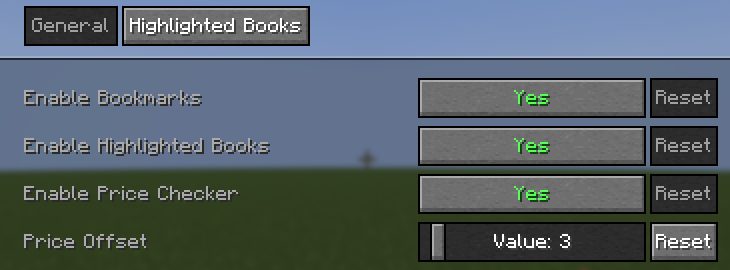
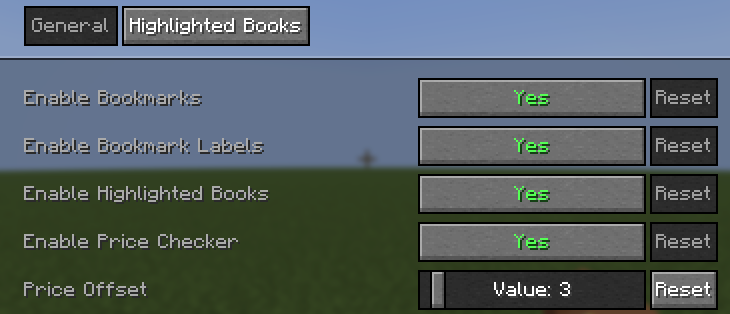
Version 1.3.1: bookmark labels follow name tag rules, new labels setting

diff --git a/src/gametest/java/com/rodrigograc4/cherishedtrades/gametest/CherishedTradesClientGameTest.java b/src/gametest/java/com/rodrigograc4/cherishedtrades/gametest/CherishedTradesClientGameTest.java
@@ -309,19 +309,51 @@ public class CherishedTradesClientGameTest implements FabricClientGameTest {
         context.waitTicks(10);
         context.takeScreenshot("cherishedtrades-6e-villager-labels-named");
 
-        // README: a few blocks back and aiming at the body, so the crosshair stays below the head.
-        // The name is made always visible, since vanilla only shows it within reach.
-        server.runOnServer(s -> findVillager(s, villagerId).setCustomNameVisible(true));
-        server.runCommand("tp @a 0.5 -60 -2 0 8");
-        context.waitTicks(10);
-        context.runOnClient(client -> check(!VillagerTradeLabels.linesFor(findClientVillager(client, villagerId), 1.0F).isEmpty(),
-                "bookmarked trades should show while looking at the villager's body"));
-        context.takeScreenshot("readme-villager-labels");
+        // Labels show exactly when vanilla shows the name tag. The villager is named "Bob" here,
+        // so every check also compares the labels with the real name tag.
+        checkLabels(context, villagerId, true, "labels should show for the villager under the crosshair");
+
+        server.runCommand("tp @a 0.5 -60 -1 0 0");
+        checkLabels(context, villagerId, null, "3.5 blocks away");
+        server.runCommand("tp @a 0.5 -60 -4 0 0");
+        checkLabels(context, villagerId, false, "labels must not show from 6.5 blocks away");
+        server.runCommand("tp @a 0.5 -60 0.5 90 0");
+        checkLabels(context, villagerId, false, "labels must not show when looking away");
+        server.runCommand("tp @a 0.5 -60 0.5 0 0");
+
+        server.runCommand("setblock 0 -59 1 minecraft:stone");
+        checkLabels(context, villagerId, false, "labels must not show through a wall");
+        server.runCommand("setblock 0 -59 1 minecraft:air");
+        checkLabels(context, villagerId, true, "labels should come back once the wall is gone");
+
+        server.runOnServer(s -> findVillager(s, villagerId).addEffect(
+                new net.minecraft.world.effect.MobEffectInstance(net.minecraft.world.effect.MobEffects.INVISIBILITY, 200)));
+        checkLabels(context, villagerId, false, "labels must not show for an invisible villager");
+        server.runOnServer(s -> findVillager(s, villagerId).removeAllEffects());
+        checkLabels(context, villagerId, true, "labels should come back once the villager is visible");
+
+        context.runOnClient(client -> CherishedTradesConfig.INSTANCE.enableBookmarkLabels = false);
+        checkLabels(context, villagerId, false, "Enable Bookmark Labels off hides the labels", false);
+        context.runOnClient(client -> CherishedTradesConfig.INSTANCE.enableBookmarkLabels = true);
 
         context.runOnClient(client -> client.gui.hud.toggle());
-        context.runOnClient(client -> check(VillagerTradeLabels.linesFor(findClientVillager(client, villagerId), 1.0F).isEmpty(),
-                "labels hide with the HUD (F1), like vanilla name tags"));
+        checkLabels(context, villagerId, false, "labels hide with the HUD (F1), like vanilla name tags");
         context.runOnClient(client -> client.gui.hud.toggle());
+
+        // From several angles the name must sit right on top of the lines, with no gap.
+        // Each is "x y z" for the player's feet, aiming at the villager's head from within reach.
+        labelAngle(context, server, villagerId, "1-front", "0.5 -60 0.5", null);
+        labelAngle(context, server, villagerId, "2-above", "0.5 -59 -0.2", "0 -60 -1");
+        labelAngle(context, server, villagerId, "3-below", "0.5 -61 0.5", null);
+        labelAngle(context, server, villagerId, "4-diagonal-left", "-1.2 -60 0.8", null);
+        labelAngle(context, server, villagerId, "5-diagonal-above", "2.2 -59 0.8", "2 -60 0");
+        labelAngle(context, server, villagerId, "6-side", "3 -60 2.5", null);
+
+        // README: the whole head with the crosshair on the body, below the crop.
+        server.runCommand("tp @a 0.5 -60 -0.6 " + facingVillager("0.5 -60 -0.6", VILLAGER_BODY_Y));
+        checkLabels(context, villagerId, true, "labels should show for the README shot");
+        context.takeScreenshot("readme-villager-labels");
+        server.runCommand("tp @a 0.5 -60 0.5 0 0");
 
         context.getInput().resizeWindow(854, 480);
         context.waitTicks(5);
@@ -411,6 +443,51 @@ public class CherishedTradesClientGameTest implements FabricClientGameTest {
         var stored = result.get(DataComponents.STORED_ENCHANTMENTS);
         var sharpness = server.registryAccess().lookupOrThrow(Registries.ENCHANTMENT).getOrThrow(Enchantments.SHARPNESS);
         check(stored != null && stored.getLevel(sharpness) == 5, "server result slot should hold Sharpness V, got " + result + " " + stored);
+    }
+
+    private static void labelAngle(ClientGameTestContext context, TestServerContext server, UUID villagerId,
+                                   String name, String feet, String standOn) {
+        if (feet.contains("-61")) server.runCommand("setblock 0 -61 0 minecraft:air");
+        if (standOn != null) server.runCommand("setblock " + standOn + " minecraft:stone");
+        server.runCommand("tp @a " + feet + " " + facingVillager(feet, VILLAGER_HEAD_Y));
+        checkLabels(context, villagerId, true, "labels should show from angle " + name);
+        context.takeScreenshot("label-angle-" + name);
+        if (standOn != null) server.runCommand("setblock " + standOn + " minecraft:air");
+        if (feet.contains("-61")) server.runCommand("setblock 0 -61 0 minecraft:grass_block");
+    }
+
+    private static final double VILLAGER_HEAD_Y = -58.35;
+    private static final double VILLAGER_BODY_Y = -58.9;
+
+    // "yaw pitch" that points the player's eyes (feet + 1.62) at the villager (x 0.5, z 2.5) at
+    // height y. tp's own "facing" aims from the feet, which looks over the villager.
+    private static String facingVillager(String feet, double y) {
+        String[] parts = feet.split(" ");
+        double dx = 0.5 - Double.parseDouble(parts[0]);
+        double dy = y - (Double.parseDouble(parts[1]) + 1.62);
+        double dz = 2.5 - Double.parseDouble(parts[2]);
+        double yaw = Math.toDegrees(Math.atan2(-dx, dz));
+        double pitch = -Math.toDegrees(Math.atan2(dy, Math.sqrt(dx * dx + dz * dz)));
+        return String.format(java.util.Locale.ROOT, "%.1f %.1f", yaw, pitch);
+    }
+
+    private static void checkLabels(ClientGameTestContext context, UUID villagerId, Boolean shown, String message) {
+        checkLabels(context, villagerId, shown, message, true);
+    }
+
+    // shown: what the labels should do, or null to only require the same as the name tag.
+    // sameAsName: for a named villager, also require the labels to match vanilla's name tag.
+    private static void checkLabels(ClientGameTestContext context, UUID villagerId, Boolean shown, String message, boolean sameAsName) {
+        context.waitTicks(5);
+        context.runOnClient(client -> {
+            var villager = findClientVillager(client, villagerId);
+            boolean labels = VillagerTradeLabels.wereLabelsShown(villager);
+            boolean name = VillagerTradeLabels.wasNameShown(villager);
+            if (shown != null) check(labels == shown, message + " (labels shown: " + labels + ")");
+            if (sameAsName && villager.hasCustomName()) {
+                check(labels == name, message + ": labels (" + labels + ") must match the name tag (" + name + ")");
+            }
+        });
     }
 
     private static net.minecraft.world.entity.Entity findClientVillager(Minecraft client, UUID id) {

diff --git a/src/main/java/com/rodrigograc4/cherishedtrades/VillagerTradeLabels.java b/src/main/java/com/rodrigograc4/cherishedtrades/VillagerTradeLabels.java
@@ -17,11 +17,11 @@ import net.minecraft.world.item.Item;
 import net.minecraft.world.item.ItemStack;
 import net.minecraft.world.item.Items;
 import net.minecraft.world.item.enchantment.Enchantment;
-import net.minecraft.world.phys.AABB;
-import net.minecraft.world.phys.Vec3;
 
 import java.util.ArrayList;
 import java.util.List;
+import java.util.Map;
+import java.util.WeakHashMap;
 import java.util.Optional;
 import java.util.Set;
 import java.util.regex.Matcher;
@@ -33,8 +33,6 @@ import java.util.regex.Pattern;
  * the trade screen again.
  */
 public final class VillagerTradeLabels {
-
-    private static final double LOOK_RANGE = 16.0;
 
     // Drawn inside the text after the price, as textures/gui/sprites/emerald_icon.png: the emerald
     // item texture cut to 14x14 around the gem. Text sprites fill an 8 px square that starts 1 px
@@ -50,31 +48,60 @@ public final class VillagerTradeLabels {
     private VillagerTradeLabels() {
     }
 
-    public static List<Component> linesFor(Entity entity, float partialTick) {
+    // Vanilla's decision for the entity being extracted right now, recorded by MobRendererMixin.
+    private static Entity nameRuleEntity;
+    private static boolean nameRuleResult;
+
+    // What was decided last time each villager was drawn; read by the game tests.
+    private static final Map<Entity, Boolean> LABELS_SHOWN = new WeakHashMap<>();
+    private static final Map<Entity, Boolean> NAME_SHOWN = new WeakHashMap<>();
+
+    /** Called before an entity's render state is extracted. */
+    public static void startExtract() {
+        nameRuleEntity = null;
+    }
+
+    /**
+     * Called by MobRendererMixin while vanilla decides whether to show a mob's name: whether
+     * the name would show if the mob had one (all of vanilla's rules: within 64 blocks, HUD
+     * shown, not invisible, team rules, and either always visible or under the crosshair).
+     */
+    public static void recordNameRule(Entity entity, boolean wouldShowIfNamed) {
+        nameRuleEntity = entity;
+        nameRuleResult = wouldShowIfNamed;
+    }
+
+    /** The lines to draw for an entity whose render state was just extracted. */
+    public static List<Component> extract(Entity entity, boolean nameShown) {
         if (!(entity instanceof AbstractVillager)) return List.of();
-        if (!CherishedTradesConfig.INSTANCE.enableBookmarks) return List.of();
+        boolean wouldShow = nameRuleEntity == entity && nameRuleResult;
+        List<Component> lines = linesFor(entity, wouldShow);
+        LABELS_SHOWN.put(entity, !lines.isEmpty());
+        NAME_SHOWN.put(entity, nameShown);
+        return lines;
+    }
+
+    public static boolean wereLabelsShown(Entity entity) {
+        return LABELS_SHOWN.getOrDefault(entity, false);
+    }
+
+    public static boolean wasNameShown(Entity entity) {
+        return NAME_SHOWN.getOrDefault(entity, false);
+    }
+
+    // Shown exactly when vanilla would show the villager's name tag, except while a screen
+    // (like the trade screen itself) covers the world.
+    private static List<Component> linesFor(Entity entity, boolean nameTagWouldShow) {
+        CherishedTradesConfig config = CherishedTradesConfig.INSTANCE;
+        if (!config.enableBookmarks || !config.enableBookmarkLabels) return List.of();
+        if (!nameTagWouldShow || Minecraft.getInstance().gui.screen() != null) return List.of();
 
         Set<String> favorites = CherishedTradesManager.getFavorites(entity.getUUID());
-        if (favorites.isEmpty() || !isLookedAt(entity, partialTick)) return List.of();
-
         List<Component> lines = new ArrayList<>();
         for (String key : favorites) {
             describe(key).ifPresent(lines::add);
         }
         return lines;
-    }
-
-    private static boolean isLookedAt(Entity entity, float partialTick) {
-        Minecraft minecraft = Minecraft.getInstance();
-        Entity camera = minecraft.getCameraEntity();
-        // Not while a screen (like the trade screen itself) covers the world, or with the HUD
-        // hidden (F1), which hides vanilla name tags too.
-        if (camera == null || minecraft.gui.screen() != null || minecraft.gui.hud.isHidden()) return false;
-
-        Vec3 eye = camera.getEyePosition(partialTick);
-        Vec3 end = eye.add(camera.getViewVector(partialTick).scale(LOOK_RANGE));
-        AABB box = entity.getBoundingBox().inflate(0.2);
-        return box.contains(eye) || box.clip(eye, end).isPresent();
     }
 
     // Trade keys are "serverIndex|costA[+costB]>result".

diff --git a/src/main/java/com/rodrigograc4/cherishedtrades/mixin/EntityRendererMixin.java b/src/main/java/com/rodrigograc4/cherishedtrades/mixin/EntityRendererMixin.java
@@ -21,8 +21,10 @@ import net.minecraft.world.entity.Entity;
 import net.minecraft.world.entity.EntityAttachment;
 import net.minecraft.world.phys.Vec3;
 
+import org.joml.Vector3f;
+
 /**
- * Draws a villager's bookmarked trades above its head while the player looks at it, one line
+ * Draws a villager's bookmarked trades above its head whenever vanilla would show its name, one line
  * per trade, the same way name tags are drawn but smaller and with no gaps. A custom name, if
  * any, goes right above them.
  */
@@ -39,9 +41,14 @@ public abstract class EntityRendererMixin {
     @Unique
     private static final float PIXEL = 0.025F;
 
+    @Inject(method = "extractRenderState", at = @At("HEAD"))
+    private void cherishedTrades$startExtract(Entity entity, EntityRenderState state, float partialTick, CallbackInfo ci) {
+        VillagerTradeLabels.startExtract();
+    }
+
     @Inject(method = "extractRenderState", at = @At("TAIL"))
     private void cherishedTrades$extractTradeLines(Entity entity, EntityRenderState state, float partialTick, CallbackInfo ci) {
-        List<Component> lines = VillagerTradeLabels.linesFor(entity, partialTick);
+        List<Component> lines = VillagerTradeLabels.extract(entity, state.nameTag != null);
         ((VillagerLabelState) state).cherishedTrades$setTradeLines(lines);
 
         // Only set by vanilla when the entity has a name to show.
@@ -75,9 +82,12 @@ public abstract class EntityRendererMixin {
         }
         poseStack.popPose();
 
-        // Raise the custom name, if any, so its bottom (row 9) meets the first line's top.
+        // Raise the custom name, if any, so its bottom (row 9) meets the first line's top. It moves
+        // along the camera's up direction, the one the lines are stacked along: plain world up
+        // would leave a gap whenever the villager is seen from above or below.
         float firstTop = (firstRow - 1) * TEXT_SCALE;
-        poseStack.translate(0.0F, (9 - firstTop) * PIXEL, 0.0F);
+        Vector3f up = new Vector3f(0.0F, (9 - firstTop) * PIXEL, 0.0F).rotate(camera.orientation);
+        poseStack.translate(up.x, up.y, up.z);
     }
 
     @Inject(method = "submitNameDisplay(Lnet/minecraft/client/renderer/entity/state/EntityRenderState;Lcom/mojang/blaze3d/vertex/PoseStack;Lnet/minecraft/client/renderer/SubmitNodeCollector;Lnet/minecraft/client/renderer/state/level/CameraRenderState;I)V",

diff --git a/src/main/java/com/rodrigograc4/cherishedtrades/mixin/MobRendererMixin.java b/src/main/java/com/rodrigograc4/cherishedtrades/mixin/MobRendererMixin.java
@@ -1,0 +1,30 @@
+package com.rodrigograc4.cherishedtrades.mixin;
+
+import org.spongepowered.asm.mixin.Mixin;
+import org.spongepowered.asm.mixin.injection.At;
+
+import com.llamalad7.mixinextras.injector.ModifyExpressionValue;
+import com.rodrigograc4.cherishedtrades.VillagerTradeLabels;
+
+import net.minecraft.client.Minecraft;
+import net.minecraft.client.renderer.entity.MobRenderer;
+import net.minecraft.world.entity.Mob;
+
+/**
+ * Vanilla shows a mob's name when the general rules allow it (LivingEntityRenderer: distance, HUD,
+ * invisibility, teams...) and the name is always visible or the mob is under the crosshair. This
+ * records that decision as if the mob had a name, so trade labels appear exactly when a name tag
+ * would.
+ */
+@Mixin(MobRenderer.class)
+public abstract class MobRendererMixin {
+
+    @ModifyExpressionValue(method = "shouldShowName(Lnet/minecraft/world/entity/Mob;D)Z", at = @At(value = "INVOKE",
+            target = "Lnet/minecraft/client/renderer/entity/LivingEntityRenderer;shouldShowName(Lnet/minecraft/world/entity/LivingEntity;D)Z"))
+    private boolean cherishedTrades$recordNameRule(boolean generalRulesAllow, Mob mob, double distanceSq) {
+        // Vanilla compares with the render dispatcher's copy of this, taken from it every frame.
+        boolean underCrosshair = mob == Minecraft.getInstance().crosshairPickEntity;
+        VillagerTradeLabels.recordNameRule(mob, generalRulesAllow && (mob.isCustomNameVisible() || underCrosshair));
+        return generalRulesAllow;
+    }
+}

diff --git a/src/main/java/com/rodrigograc4/cherishedtrades/config/CherishedTradesConfigScreen.java b/src/main/java/com/rodrigograc4/cherishedtrades/config/CherishedTradesConfigScreen.java
@@ -114,6 +114,11 @@ public final class CherishedTradesConfigScreen {
                 .setTooltip(tooltip("enableBookmarks"))
                 .setSaveConsumer(value -> config.enableBookmarks = value)
                 .build());
+        general.addEntry(entries.startBooleanToggle(option("enableBookmarkLabels"), config.enableBookmarkLabels)
+                .setDefaultValue(defaults.enableBookmarkLabels)
+                .setTooltip(tooltip("enableBookmarkLabels"))
+                .setSaveConsumer(value -> config.enableBookmarkLabels = value)
+                .build());
         general.addEntry(entries.startBooleanToggle(option("enableHighlightedBooks"), config.enableHighlightedBooks)
                 .setDefaultValue(defaults.enableHighlightedBooks)
                 .setTooltip(tooltip("enableHighlightedBooks"))

diff --git a/src/main/java/com/rodrigograc4/cherishedtrades/config/CherishedTradesConfig.java b/src/main/java/com/rodrigograc4/cherishedtrades/config/CherishedTradesConfig.java
@@ -19,6 +19,9 @@ public class CherishedTradesConfig implements ConfigData {
     public boolean enableBookmarks = true;
 
     @ConfigEntry.Gui.Tooltip
+    public boolean enableBookmarkLabels = true;
+
+    @ConfigEntry.Gui.Tooltip
     public boolean enableHighlightedBooks = true;
 
     @ConfigEntry.Gui.Tooltip

diff --git a/README.md b/README.md
@@ -47,7 +47,8 @@ Hover over a book to see every price it can have, what this villager asks, and t
 
 Open the settings from [Mod Menu](https://modrinth.com/mod/modmenu).
 
-- **Enable Bookmarks**: show the bookmark icons, and the bookmarked trades above villagers.
+- **Enable Bookmarks**: show the bookmark icons next to trades.
+- **Enable Bookmark Labels**: show the bookmarked trades above the villager you are looking at. Turn it off to keep using bookmarks without the labels.
 - **Enable Highlighted Books**: highlight the books picked in the _Highlighted Books_ tab. Turning it off keeps your choices.
 - **Enable Price Checker**: show the gold arrow and the price tooltip.
 - **Price Offset**: also count prices slightly above the lowest as a good deal. An offset of 2 means "lowest price + 2".
